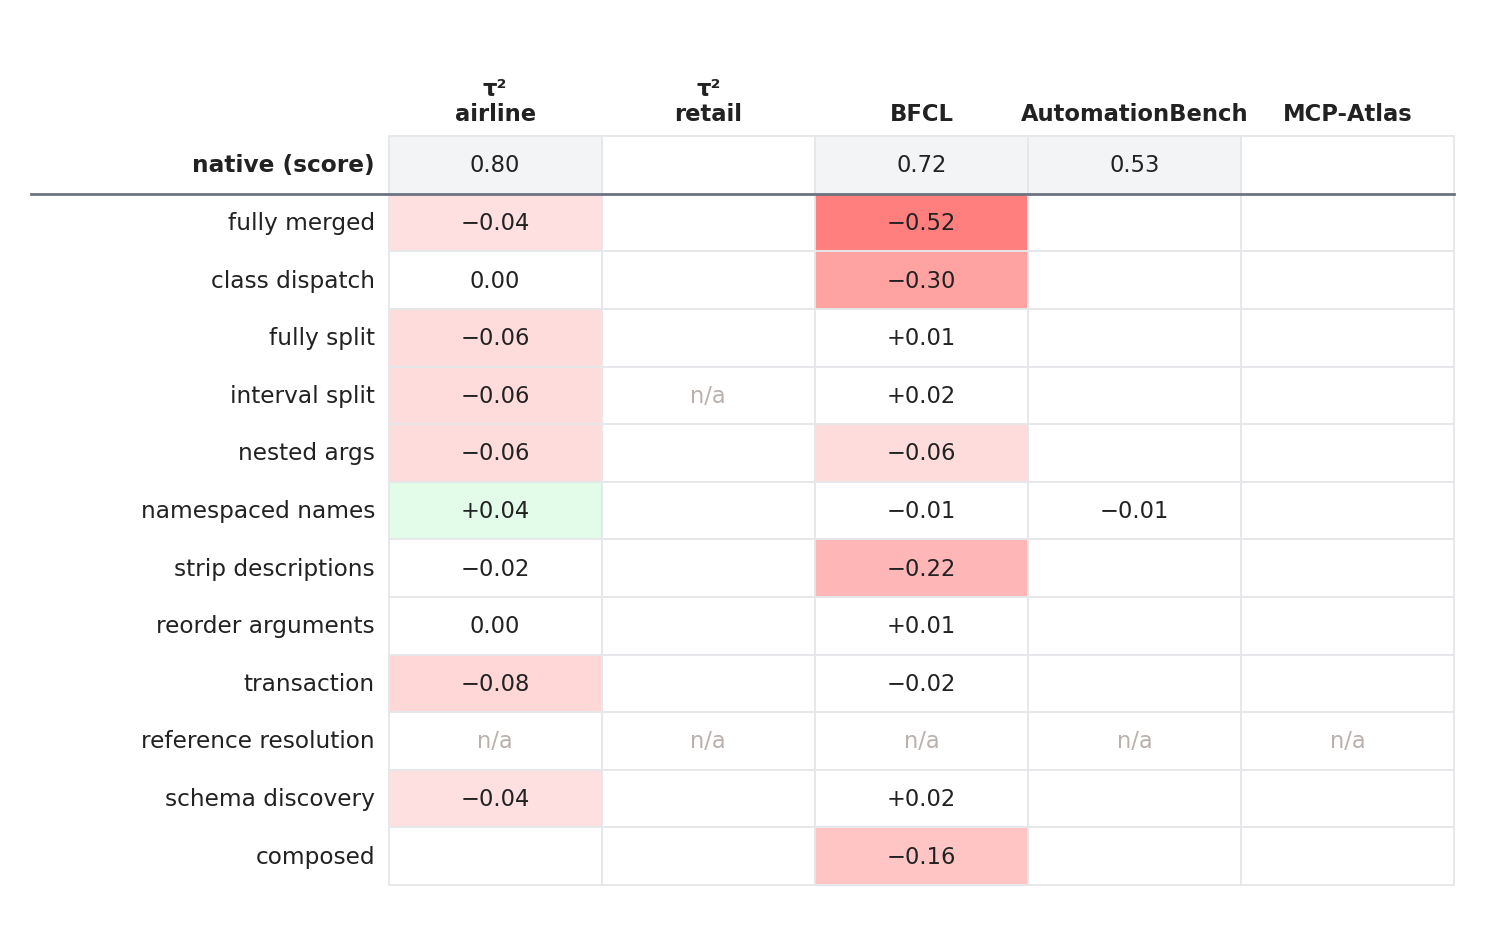
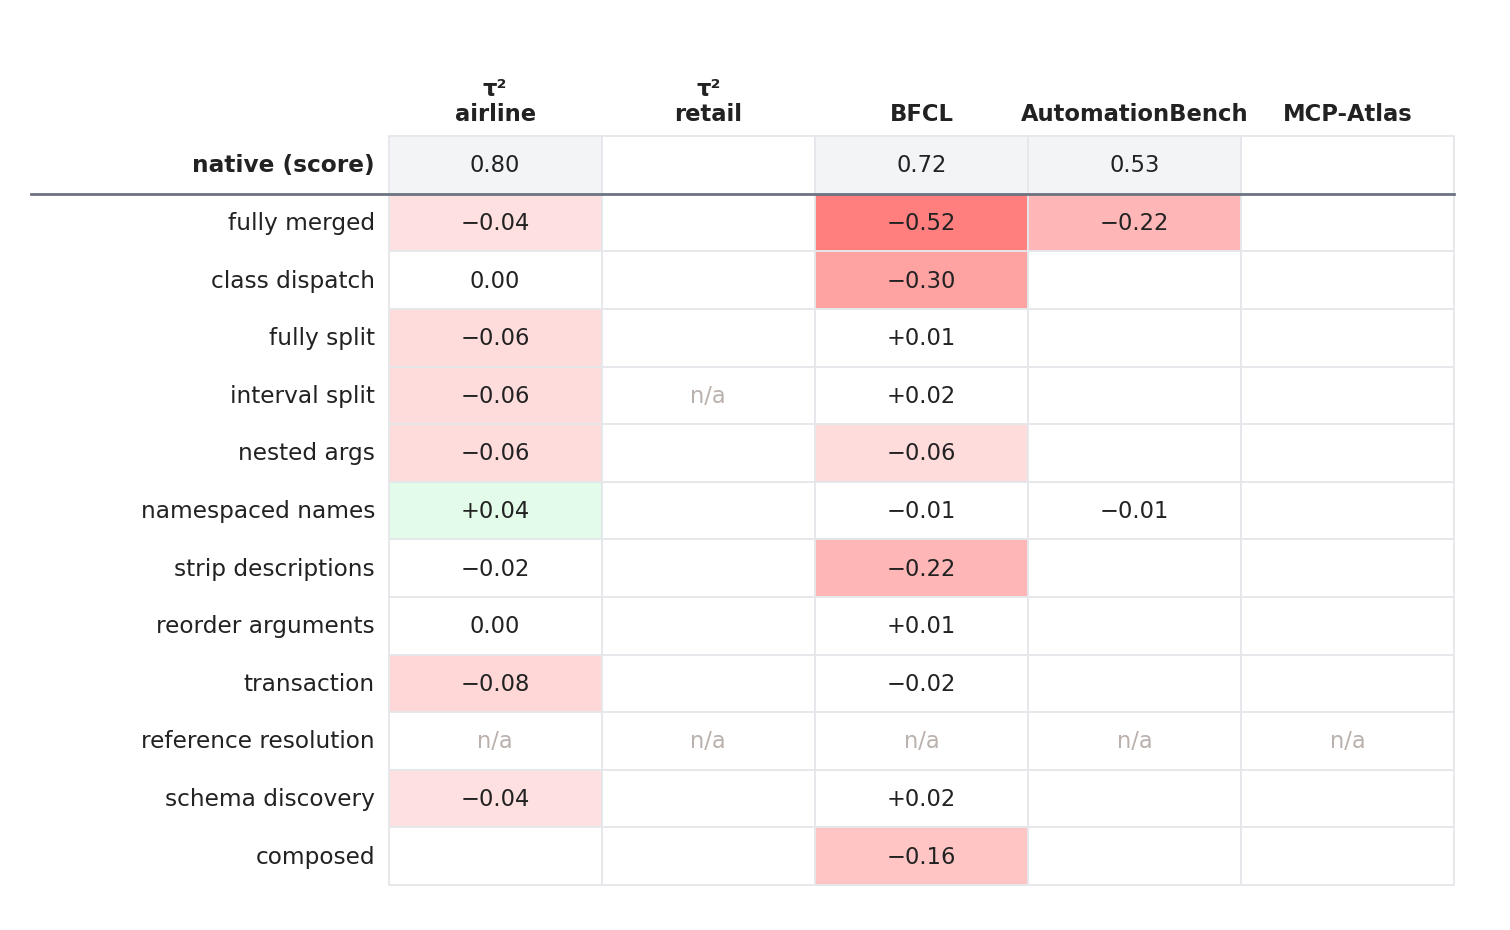
results/real: refresh (AutomationBench native, merge, namespaced names complete)
Claude-Session: https://claude.ai/code/session_01Q8ViF5biZy5C1S35sHbtBs

Changed region(s): [[0.6536, 0.1871, 0.8404, 0.2806]]

diff --git a/results/raw_tables.md b/results/raw_tables.md
@@ -50,7 +50,7 @@ The numbers behind the figures in [README.md](README.md). In each table the firs
 | variant | τ² airline | τ² retail | BFCL | AutomationBench | MCP-Atlas |
 |---|---:|---:|---:|---:|---:|
 | native (score) | **0.800** |   | **0.725** | **0.535** |   |
-| fully merged | -0.040 |   | -0.515 |   |   |
+| fully merged | -0.040 |   | -0.515 | -0.219 |   |
 | class dispatch | +0.000 |   | -0.305 |   |   |
 | fully split | -0.060 |   | +0.005 |   |   |
 | interval split | -0.060 | n/a | +0.015 |   |   |
